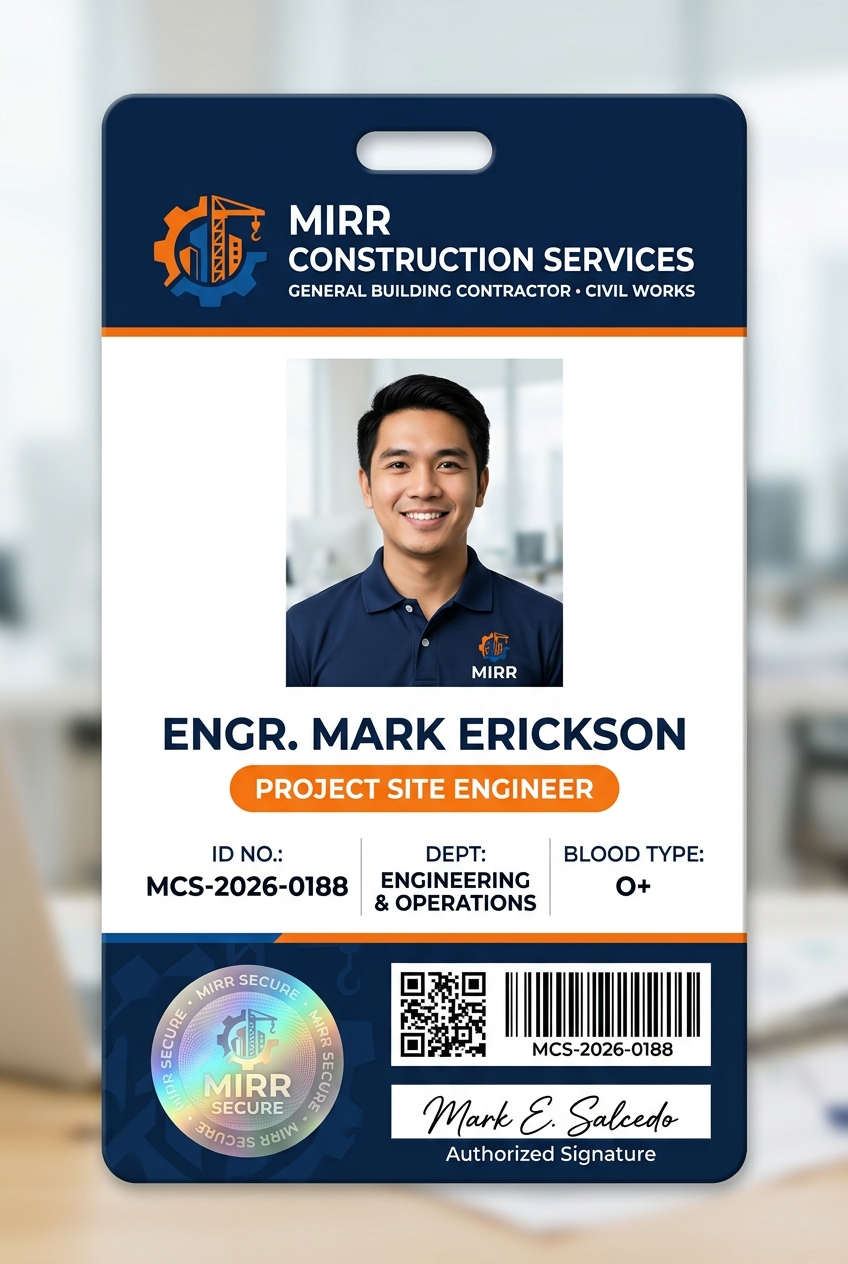
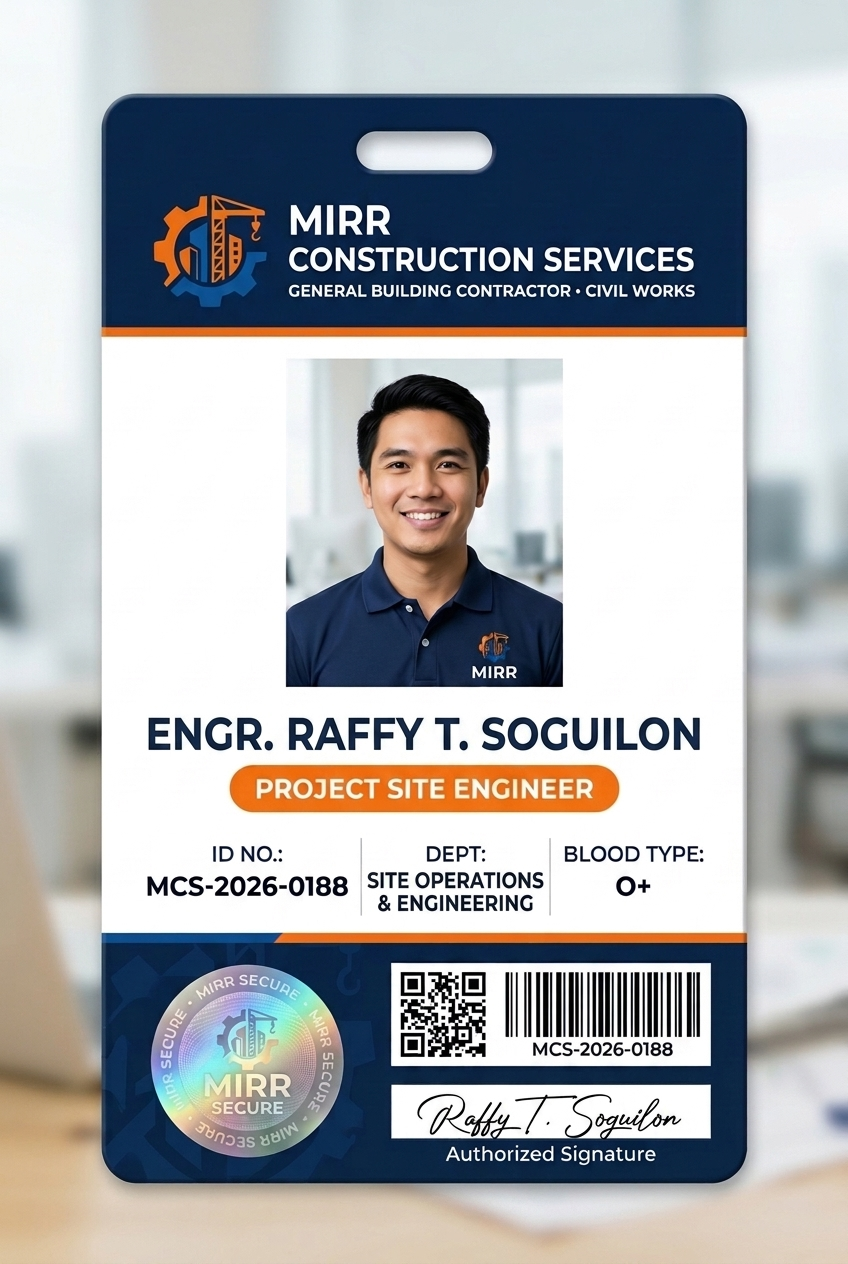
Update MIRR Construction Services ID badge with name Engr. Raffy T. Soguilon

diff --git a/MIRR_Employee_ID_Card.html b/MIRR_Employee_ID_Card.html
@@ -628,7 +628,7 @@
             </svg>
           </div>
 
-          <div class="employee-name" contenteditable="true">ENGR. MARK ERICKSON</div>
+          <div class="employee-name" contenteditable="true">ENGR. RAFFY T. SOGUILON</div>
           <div class="employee-title" contenteditable="true">PROJECT SITE ENGINEER</div>
           <div class="employee-dept" contenteditable="true">Electronics &amp; Communications / Site Ops</div>
 
@@ -737,7 +737,7 @@
           <div class="sig-section">
             <div class="sig-col">
               <div class="sig-line">
-                <span>M. Erickson</span>
+                <span>R. T. Soguilon</span>
               </div>
               <div class="sig-caption">Employee Signature</div>
             </div>
